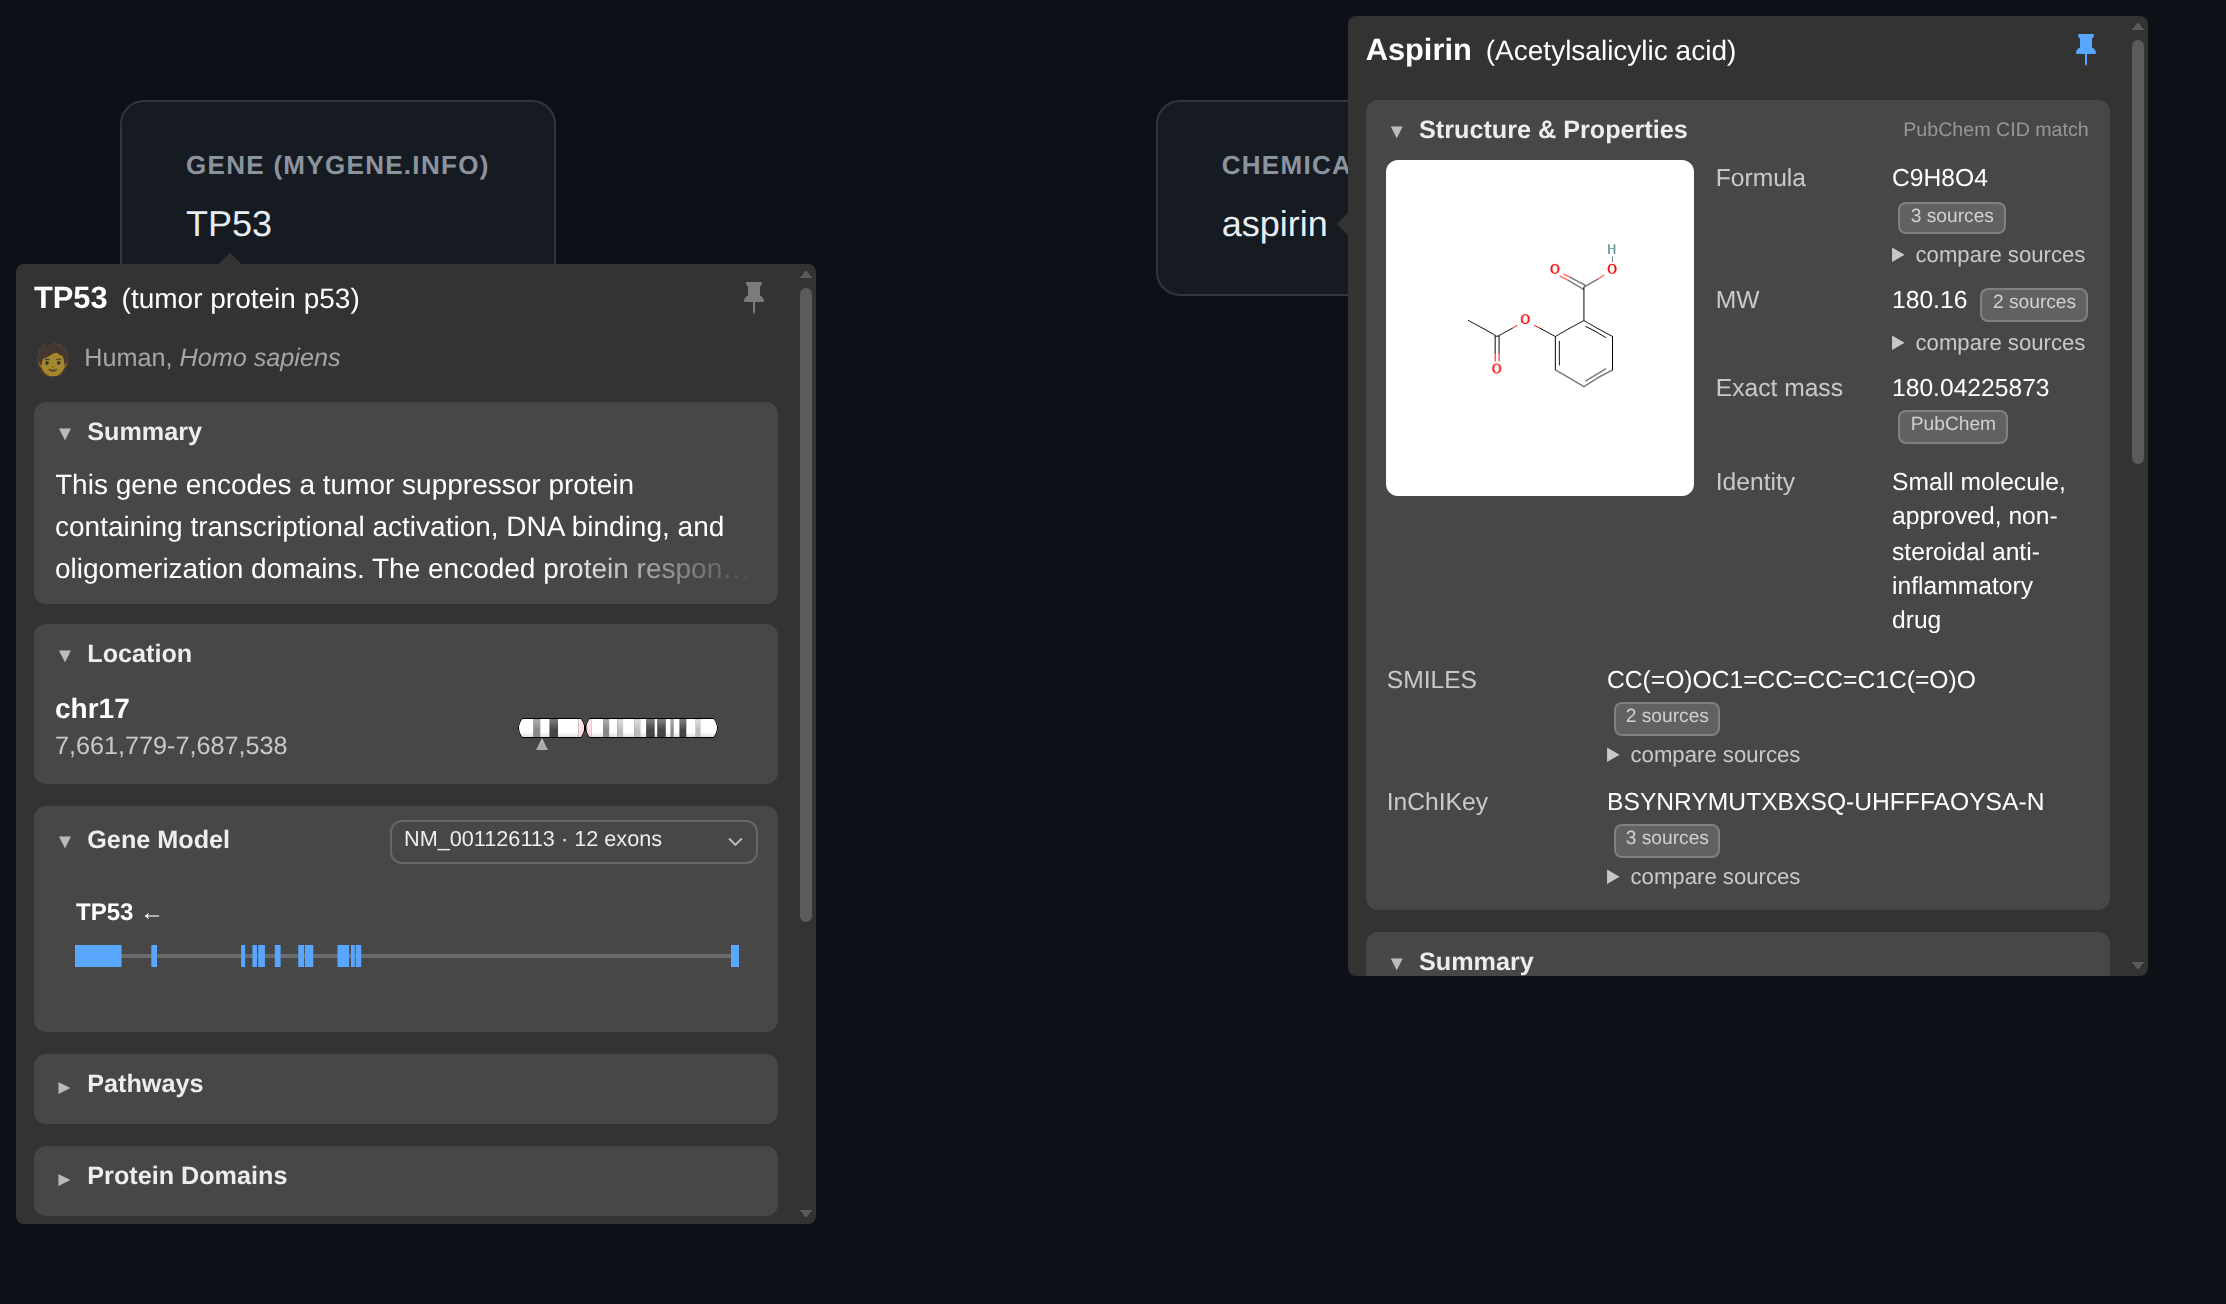
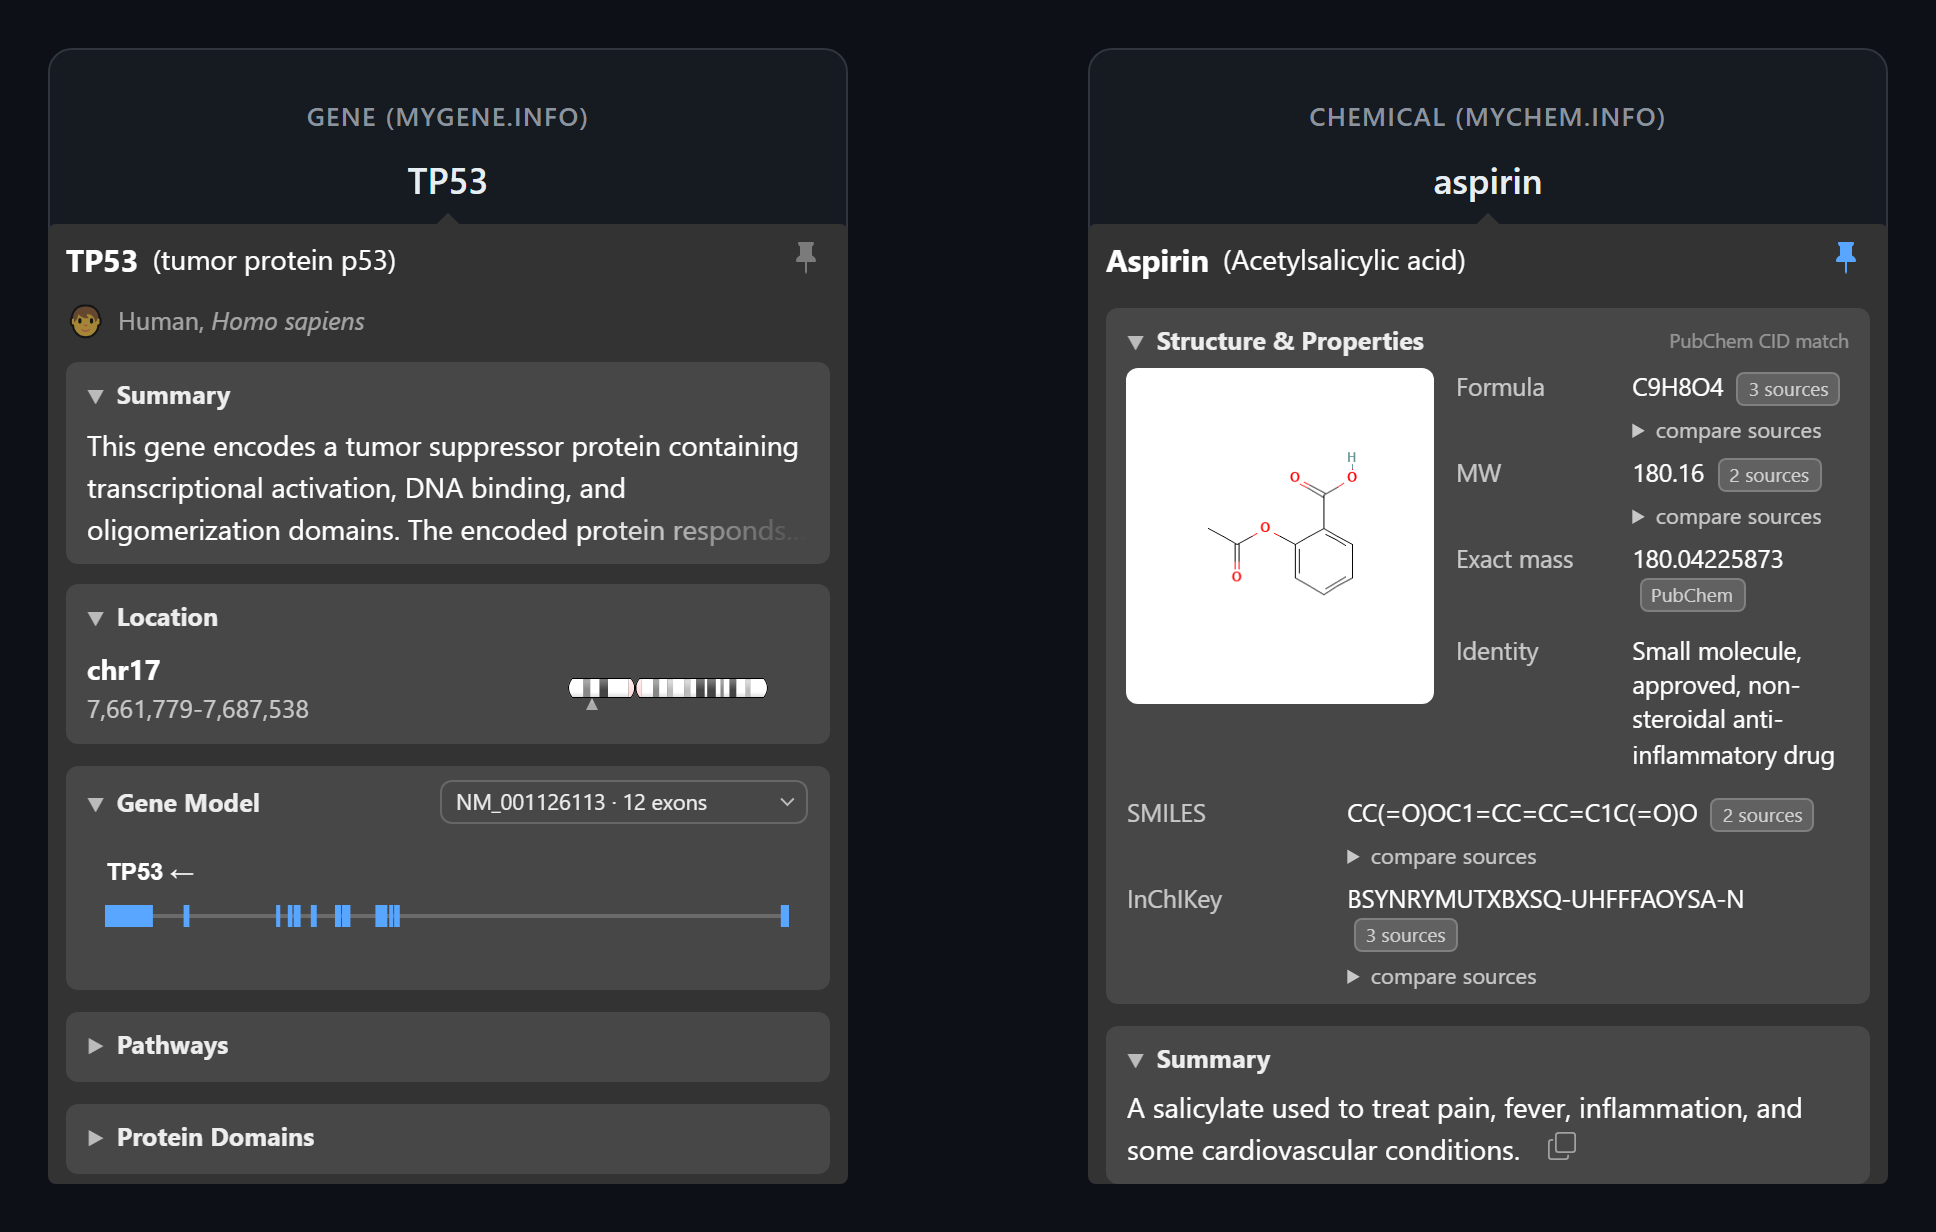
feat: make tooltip position in screenshots deterministic

diff --git a/screenshots/screenshot.html b/screenshots/screenshot.html
@@ -36,8 +36,10 @@
             font-family: -apple-system, BlinkMacSystemFont, 'Segoe UI', Roboto, sans-serif;
             background: var(--bg);
             padding: 50px 60px;
-            display: flex;
-            gap: 300px;
+            display: grid;
+            grid-template-columns: repeat(2, 400px);
+            justify-content: center;
+            gap: 120px;
             align-items: flex-start;
         }
         .trigger-card {
@@ -45,6 +47,7 @@
             border-radius: 12px;
             background: var(--card-bg);
             border: 1px solid var(--card-border);
+            text-align: center;
         }
         .trigger-card h2 {
             font-size: 13px;
@@ -91,11 +94,19 @@
                 ideogram: { enabled: true, height: 100 },
                 tooltipHeight: 480,
                 tooltipWidth: 400,
+                tooltipOptions: {
+                    placement: 'bottom',
+                    fallbackPlacements: [],
+                },
                 theme
             });
             ChemicalTooltip.init({
                 tooltipHeight: 480,
                 tooltipWidth: 400,
+                tooltipOptions: {
+                    placement: 'bottom',
+                    fallbackPlacements: [],
+                },
                 theme
             });
         });
